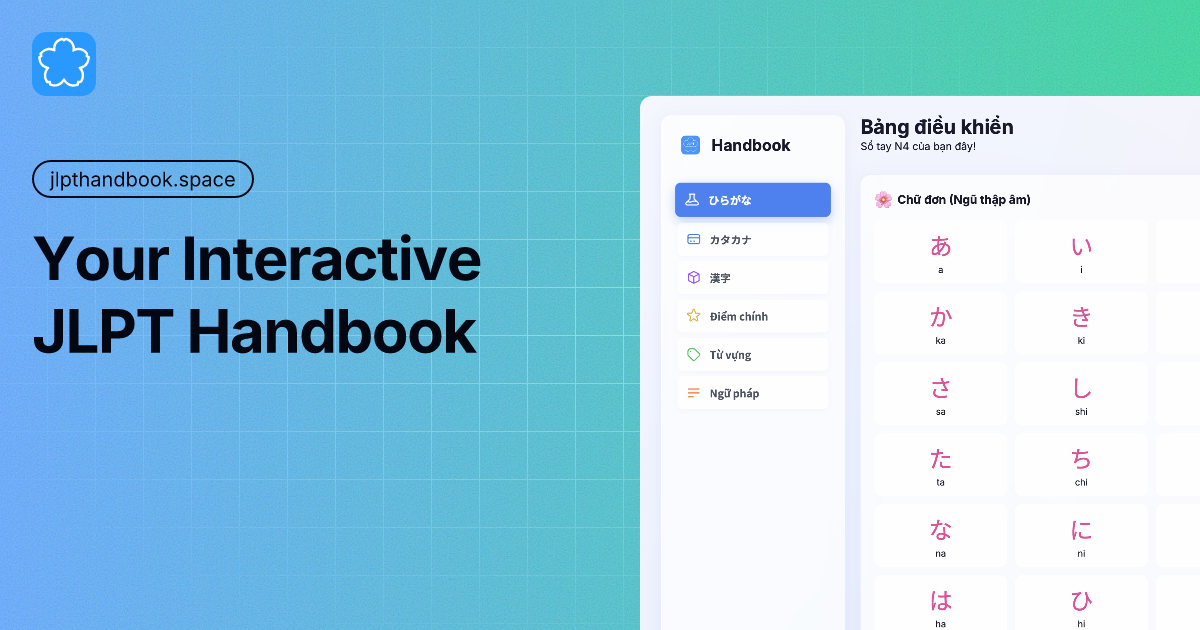
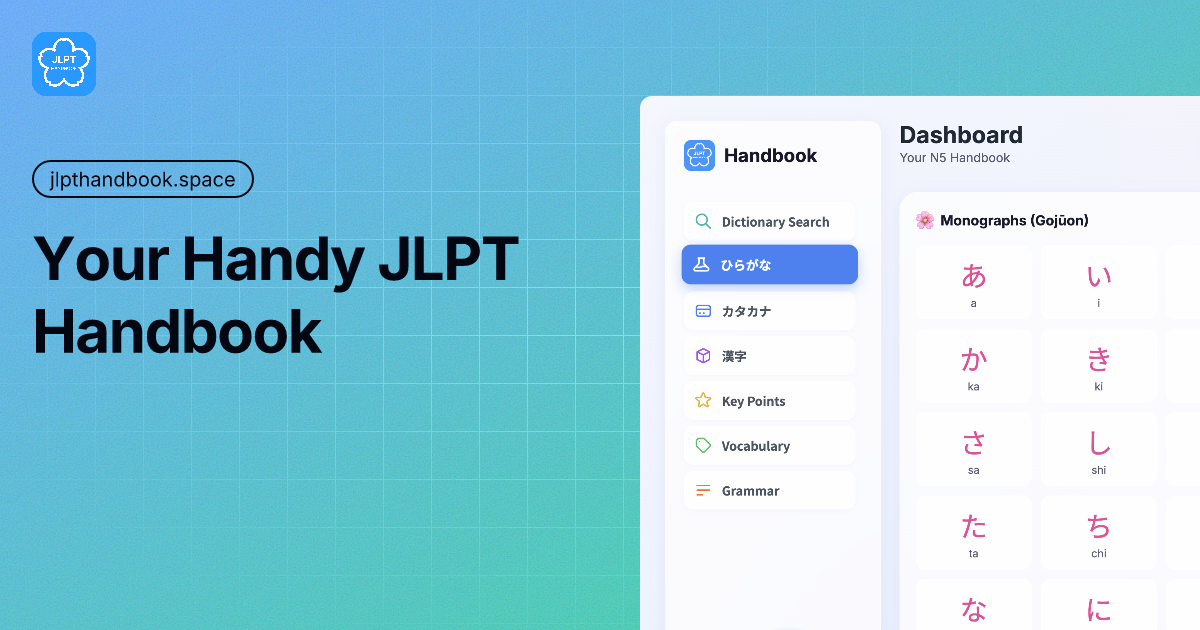
polis the app

diff --git a/index.html b/index.html
@@ -18,9 +18,9 @@
     <link rel="preload" href="./assets/siteIcon.png" as="image">
 
     <meta name="description"
-        content="An interactive, multi-level web application to help you study Japanese. Start with the built-in JLPT N5 material or import your own custom study levels.">
+        content="An interactive, multi-level web application to help you study Japanese. Start with the built-in JLPT N5 & N4 material or import your own custom study levels.">
     <meta property="og:type" content="website">
-    <meta property="og:title" content="Your Interactive JLPT Handbook">
+    <meta property="og:title" content="Your Handy JLPT Handbook">
     <meta property="og:description"
         content="An interactive, multi-level web application to help you study Japanese, featuring progress tracking, fuzzy search, and a bilingual interface.">
     <meta property="og:image" content="https://ghuyphan.github.io/n5-handbook/assets/og.png">
